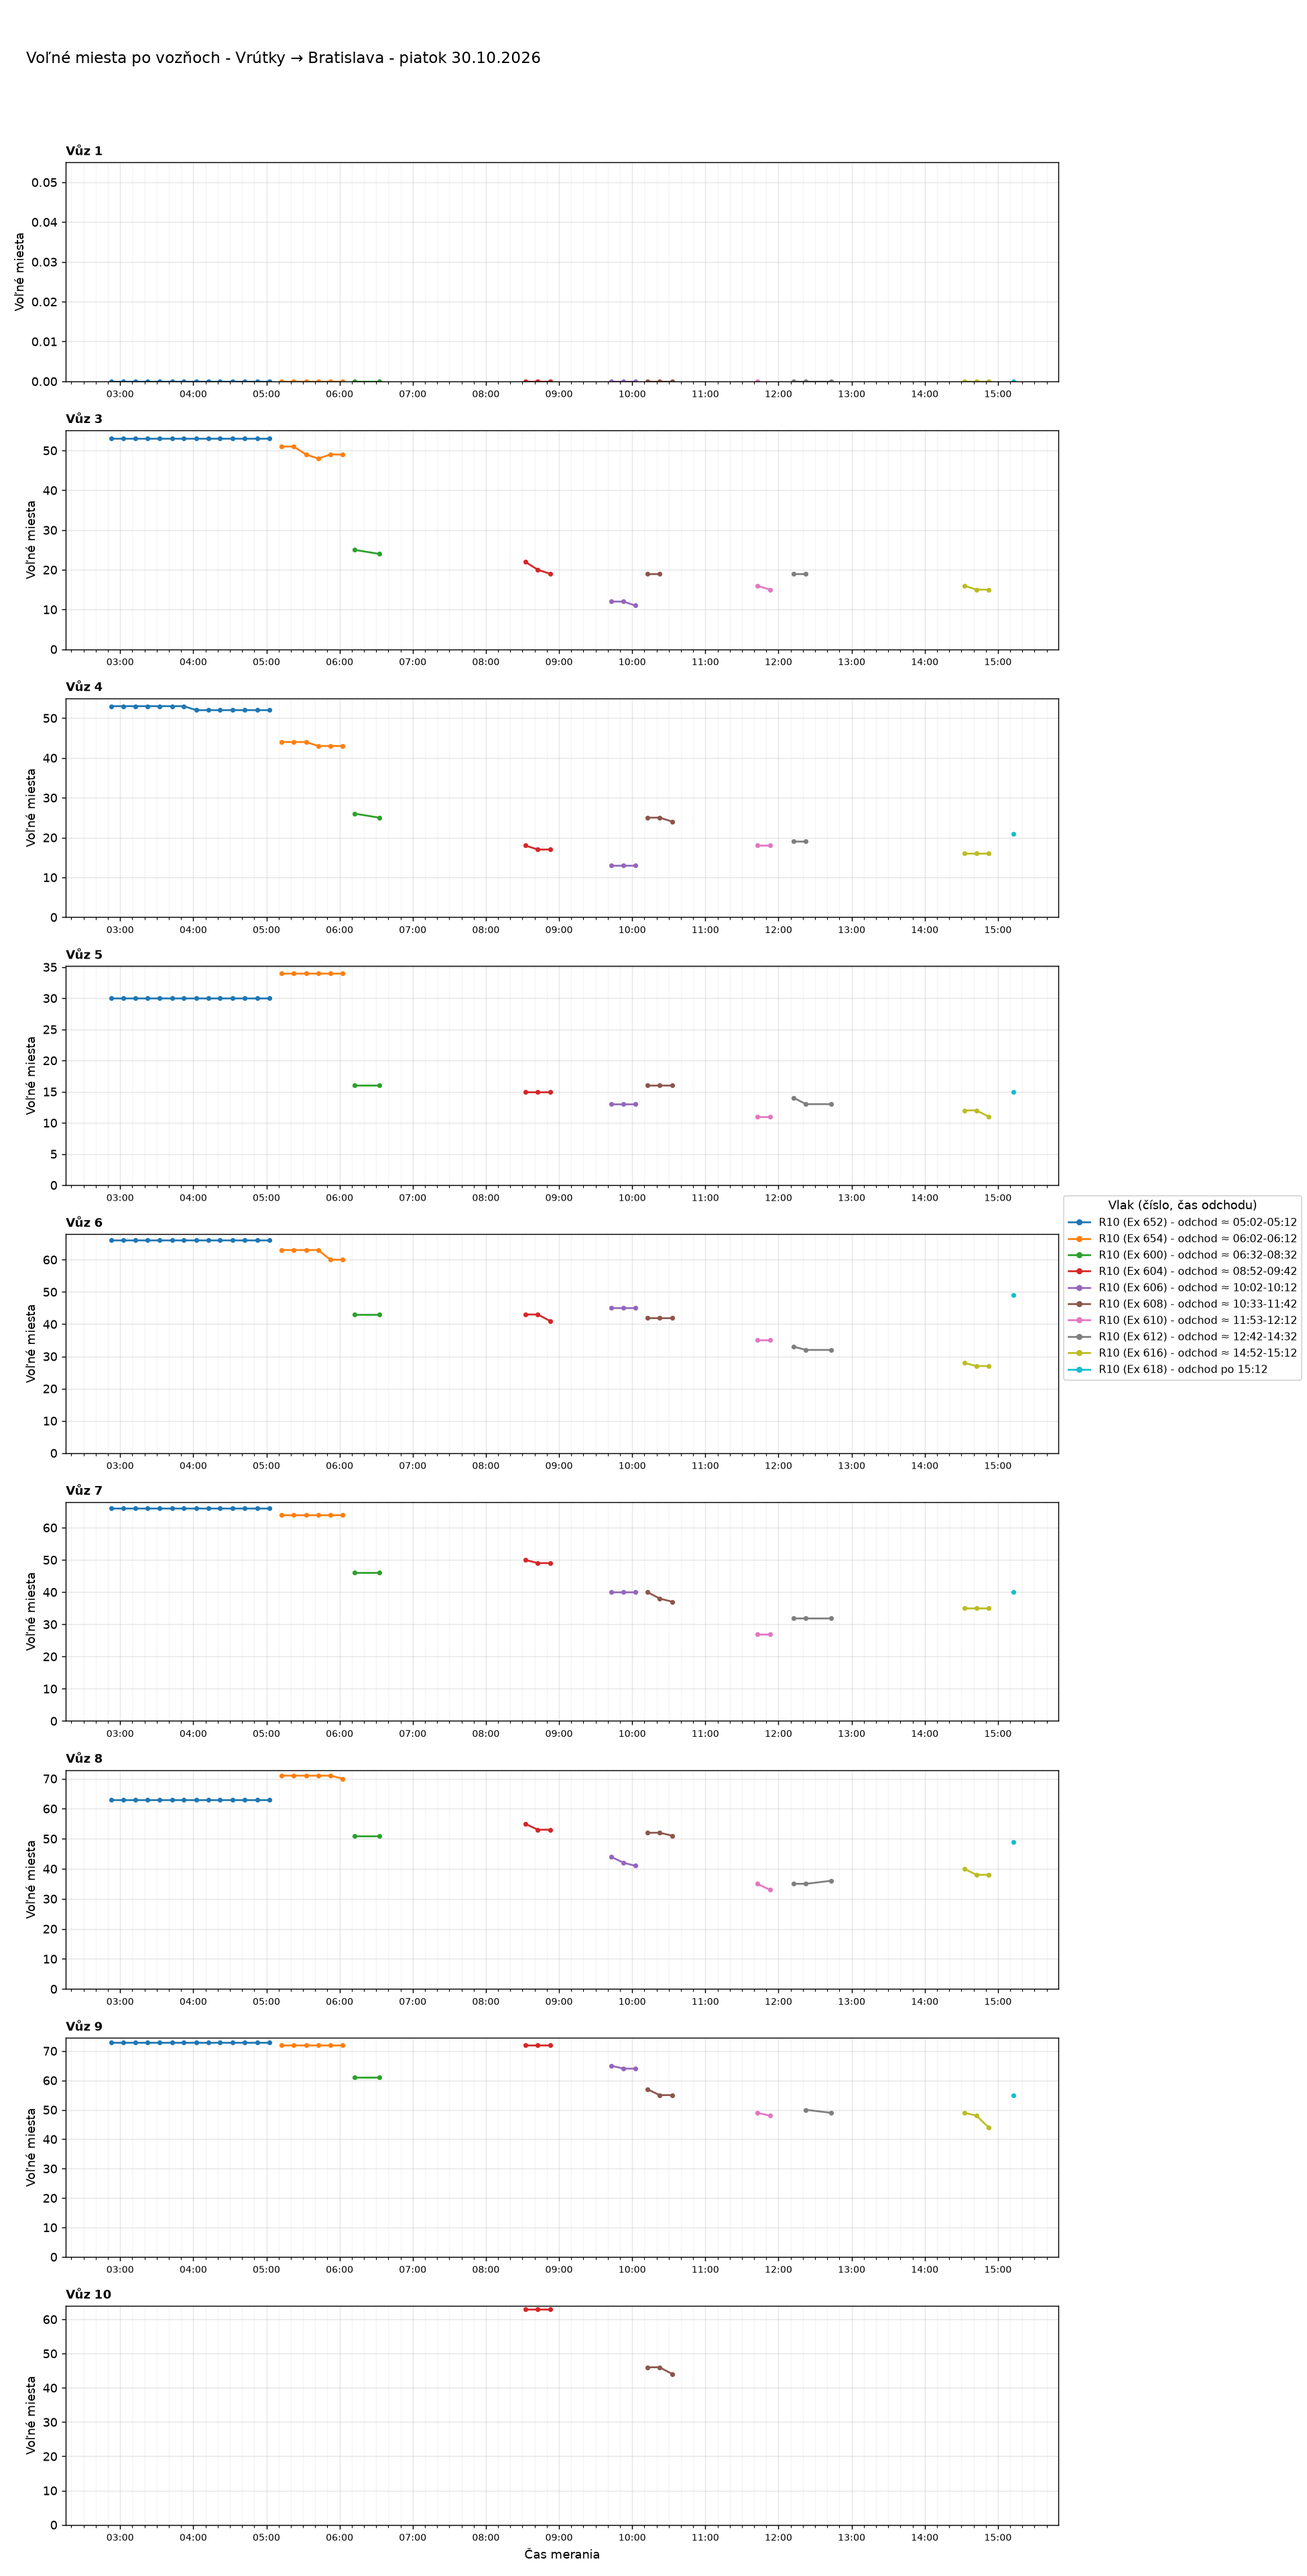
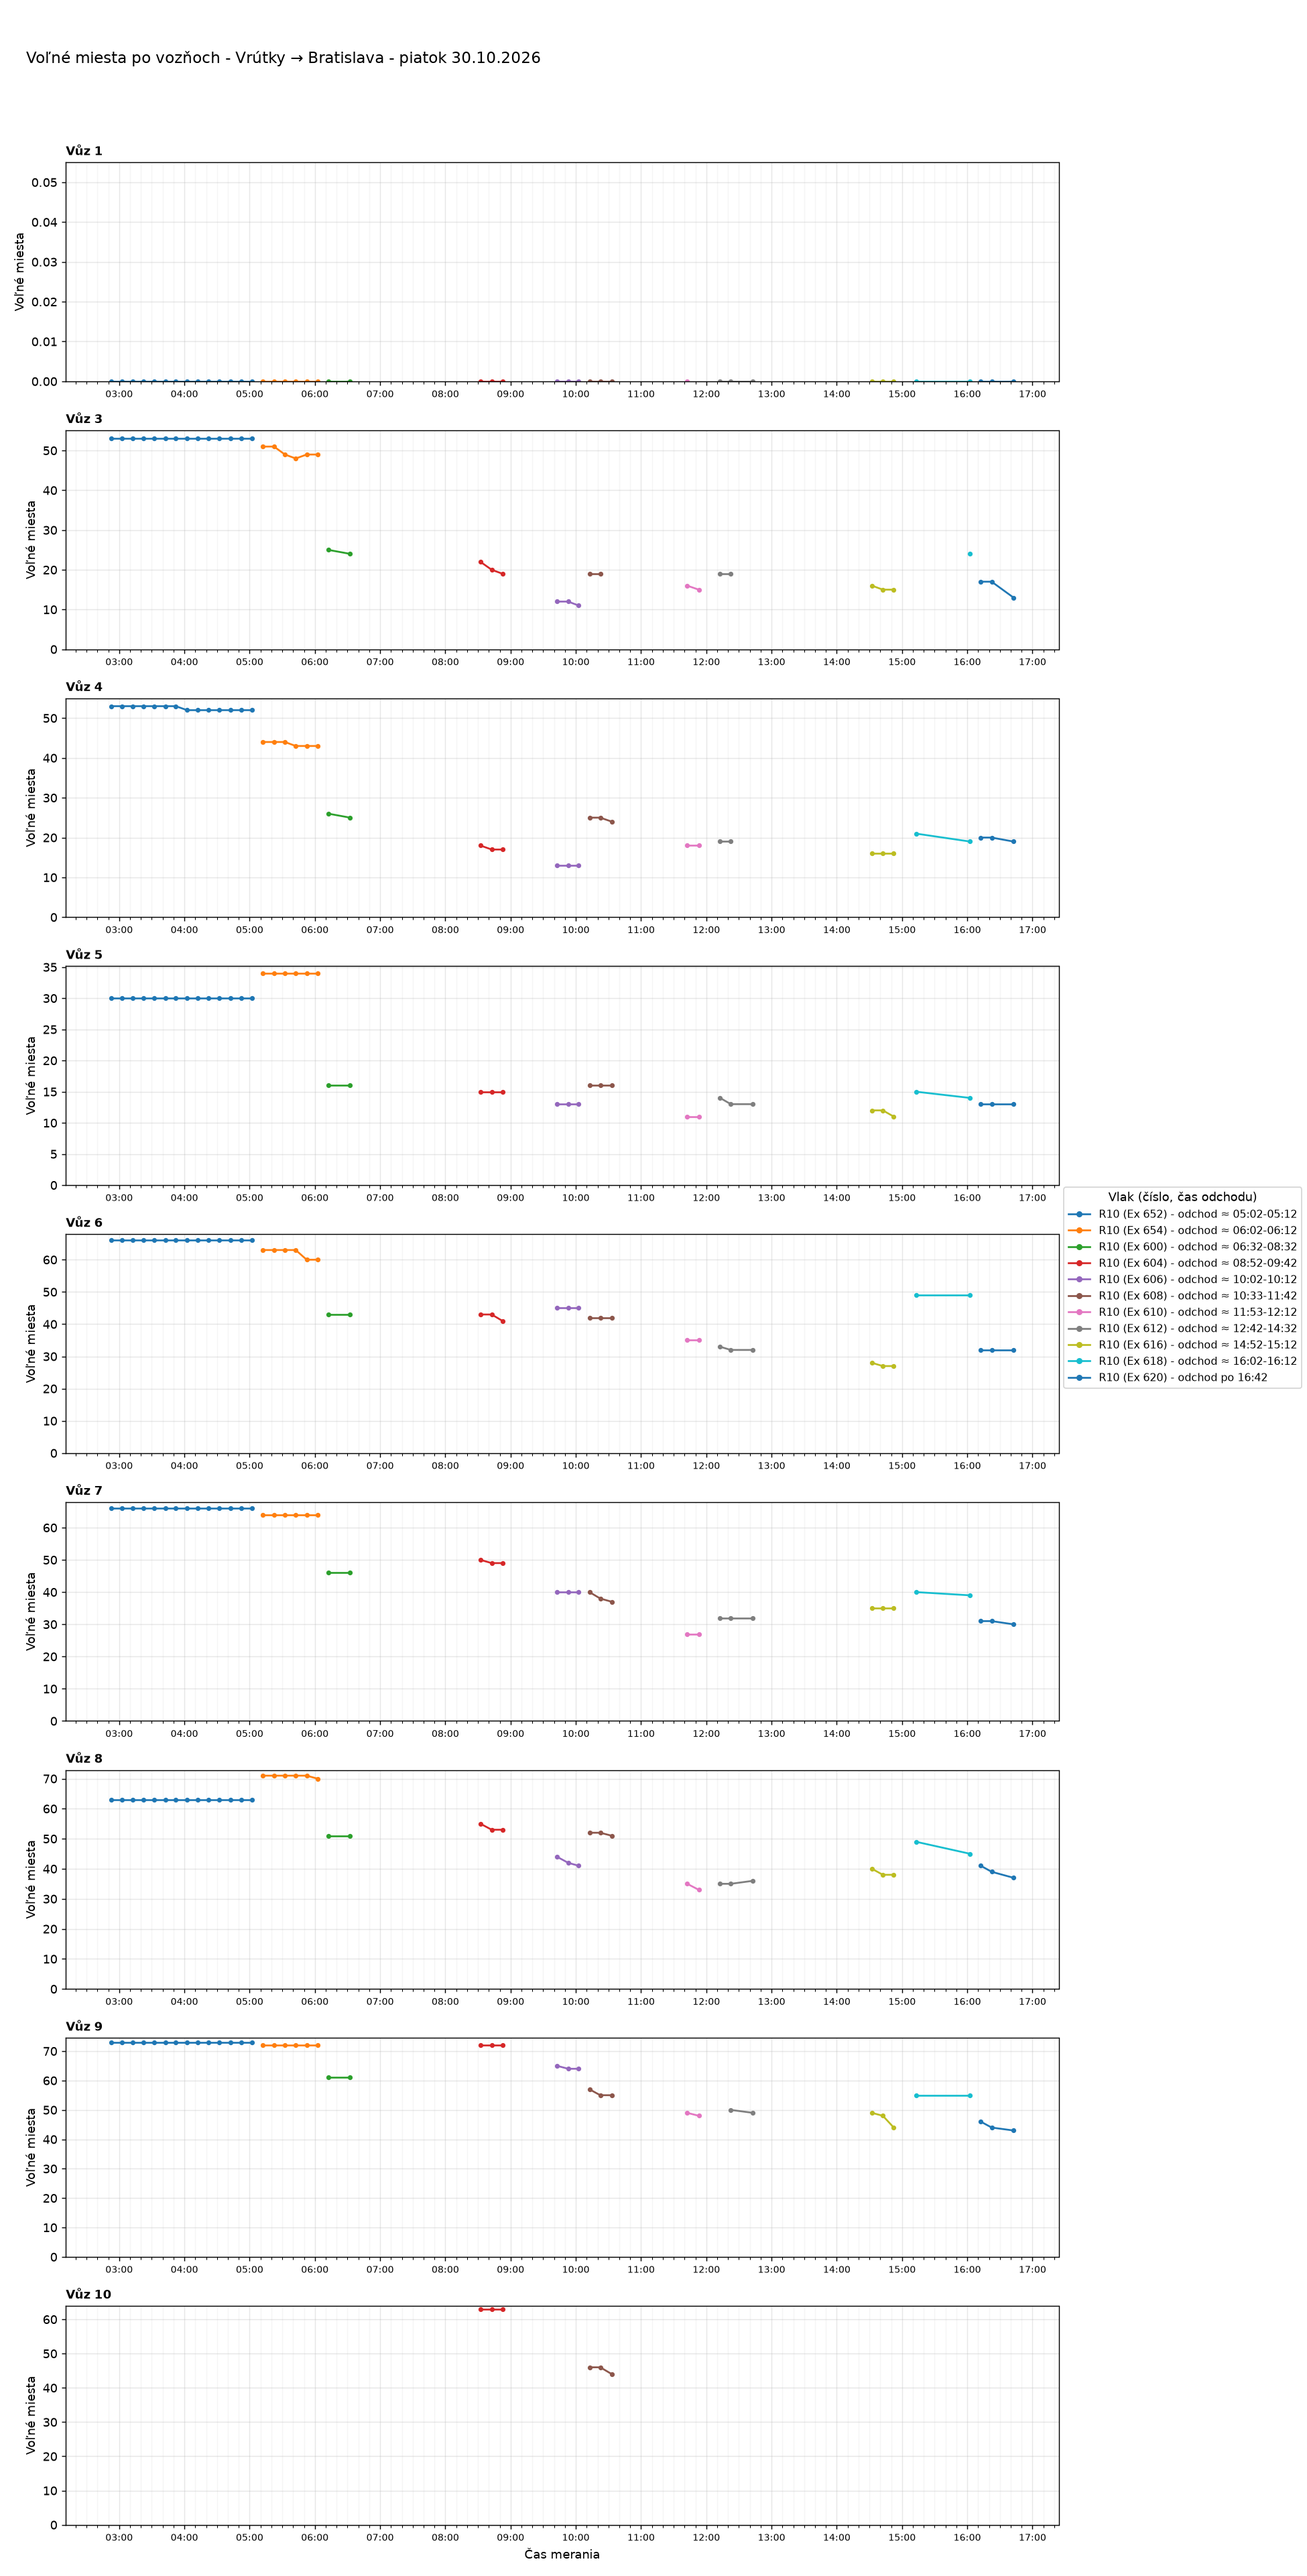
Aktualizácia grafov 2026-10-30 16:58

Changed region(s): [[0.8, 0.4372, 1.0, 0.5621], [0.1846, 0.5621, 0.2154, 0.5933]]

diff --git a/index.html b/index.html
@@ -37,7 +37,7 @@ details.trasa>summary{cursor:pointer;font-weight:600;font-size:1.1rem;padding:8p
 <body>
 <main>
 <h1>Voľné miesta vo vlakoch</h1>
-<p class="muted">Posledné meranie: 30.10.2026 15:12 ·
+<p class="muted">Posledné meranie: 30.10.2026 16:52 ·
 <a href="data/obsadenost_data.csv">stiahnuť dáta (CSV)</a></p>
 <nav class="nav"><a href="#suhrn">Súhrn</a><a href="#statistiky">Štatistiky</a><a href="#historia">História grafov</a></nav>
 
@@ -46,9 +46,9 @@ details.trasa>summary{cursor:pointer;font-weight:600;font-size:1.1rem;padding:8p
 <div class="tablewrap"><table>
 <thead><tr><th>Deň</th><th>Trasa</th><th>Meraní</th><th>Vlakov</th><th>Čas meraní</th></tr></thead>
 <tbody>
-<tr><td><a href="#dBA-VR-2026-10-30">piatok 30.10.2026</a></td><td>Bratislava → Vrútky</td><td>48</td><td>10</td><td>00:31-13:42</td></tr>
-<tr><td><a href="#dVR-BA-2026-10-30">piatok 30.10.2026</a></td><td>Vrútky → Bratislava</td><td>40</td><td>10</td><td>02:52-15:12</td></tr>
-<tr><td><a href="#dBA-KE-2026-10-30">piatok 30.10.2026</a></td><td>Bratislava → Košice</td><td>41</td><td>9</td><td>00:22-12:43</td></tr>
+<tr><td><a href="#dBA-VR-2026-10-30">piatok 30.10.2026</a></td><td>Bratislava → Vrútky</td><td>54</td><td>13</td><td>00:31-16:51</td></tr>
+<tr><td><a href="#dVR-BA-2026-10-30">piatok 30.10.2026</a></td><td>Vrútky → Bratislava</td><td>44</td><td>11</td><td>02:52-16:42</td></tr>
+<tr><td><a href="#dBA-KE-2026-10-30">piatok 30.10.2026</a></td><td>Bratislava → Košice</td><td>46</td><td>11</td><td>00:22-16:52</td></tr>
 <tr><td><a href="#dKE-BA-2026-10-30">piatok 30.10.2026</a></td><td>Košice → Bratislava</td><td>39</td><td>10</td><td>00:23-15:03</td></tr>
 <tr><td><a href="#dBA-VR-2026-10-29">štvrtok 29.10.2026</a></td><td>Bratislava → Vrútky</td><td>84</td><td>14</td><td>00:01-23:31</td></tr>
 <tr><td><a href="#dVR-BA-2026-10-29">štvrtok 29.10.2026</a></td><td>Vrútky → Bratislava</td><td>75</td><td>15</td><td>02:42-21:02</td></tr>
